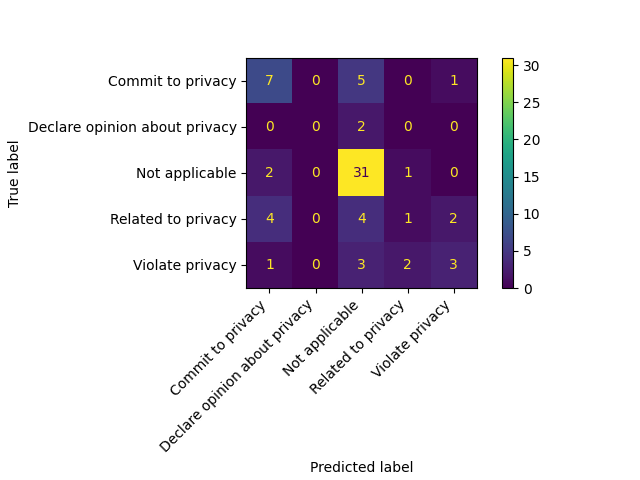
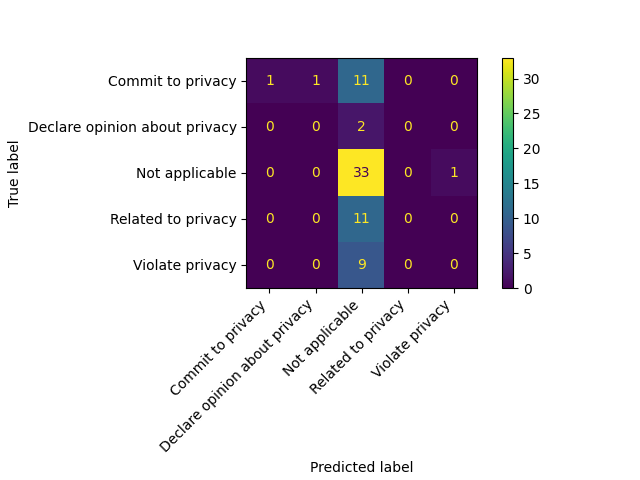
rerun bigrams lr 1 nest 50

diff --git a/AIclassifier.py b/AIclassifier.py
@@ -121,8 +121,8 @@ def create_vectors_list(sents, conversion_dict):
         bigrams_vector.append(sent_bigrams_vector)
         mixed_vector.append(sent_mixed_vector)
 
-    return vectors_list
-    #return bigrams_vector
+    #return vectors_list
+    return bigrams_vector
     #return mixed_vector
 
 # def create_word_embedding(partition):
@@ -282,26 +282,16 @@ model = adaclassifier.fit(train_matrix_array, train_labels_primary)
 
 importances = model.feature_importances_
 
+features = {}
 # for i,(token,value) in enumerate(zip(words_to_numbers, importances)):
 #for i,(token,value) in enumerate(zip(mixed_to_numbers, importances)):
-for i,(token,value) in enumerate(zip(bigrams_to_numbers, importances)):
-    #print('Feature:',token,'Score:',value)
-    if (value != 0):
-	    print('Feature:',token,'Score:',value)
-    
-
-#print(type(importances))
-#print(sorted(importances))
-
-#features = {}
-#for i,(token,value) in enumerate(zip(bigrams_to_numbers, importances)): # IMPORTANTO TO CHANGE TO ADEQUATE DICT
-#    if (value != 0):
-#	    #print('Feature:',token,'Score:',value)
-#        features[token] = value
-#features = sorted([(value, key) for (key, value) in features.items()], reverse=True)
-#print(features)
-#for feature in features:
-#    print('Feature:',feature[1],'Score:',feature[0])
+for i,(token,value) in enumerate(zip(bigrams_to_numbers, importances)): # IMPORTANTO TO CHANGE TO ADEQUATE DICT
+   if (value != 0):
+       features[token] = value
+features = sorted([(value, key) for (key, value) in features.items()], reverse=True)
+print(features)
+for feature in features:
+   print('Feature:',feature[1],'Score:',feature[0])
 
 # Predicting
 predictions = model.predict(dev_matrix_array)
